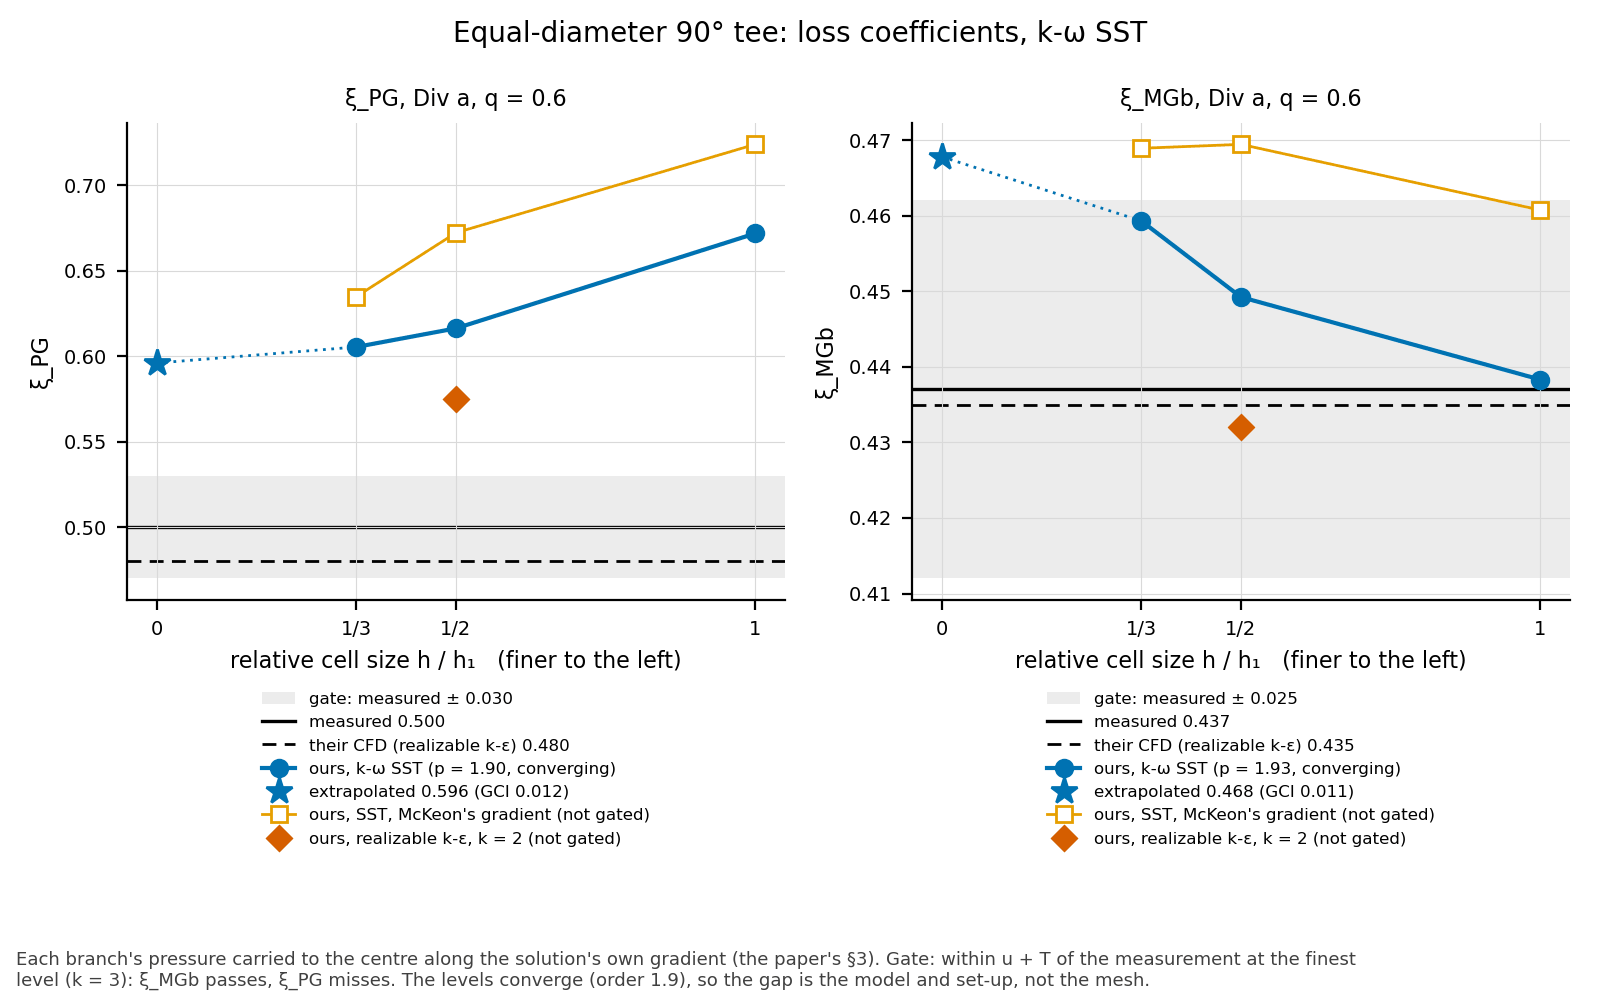
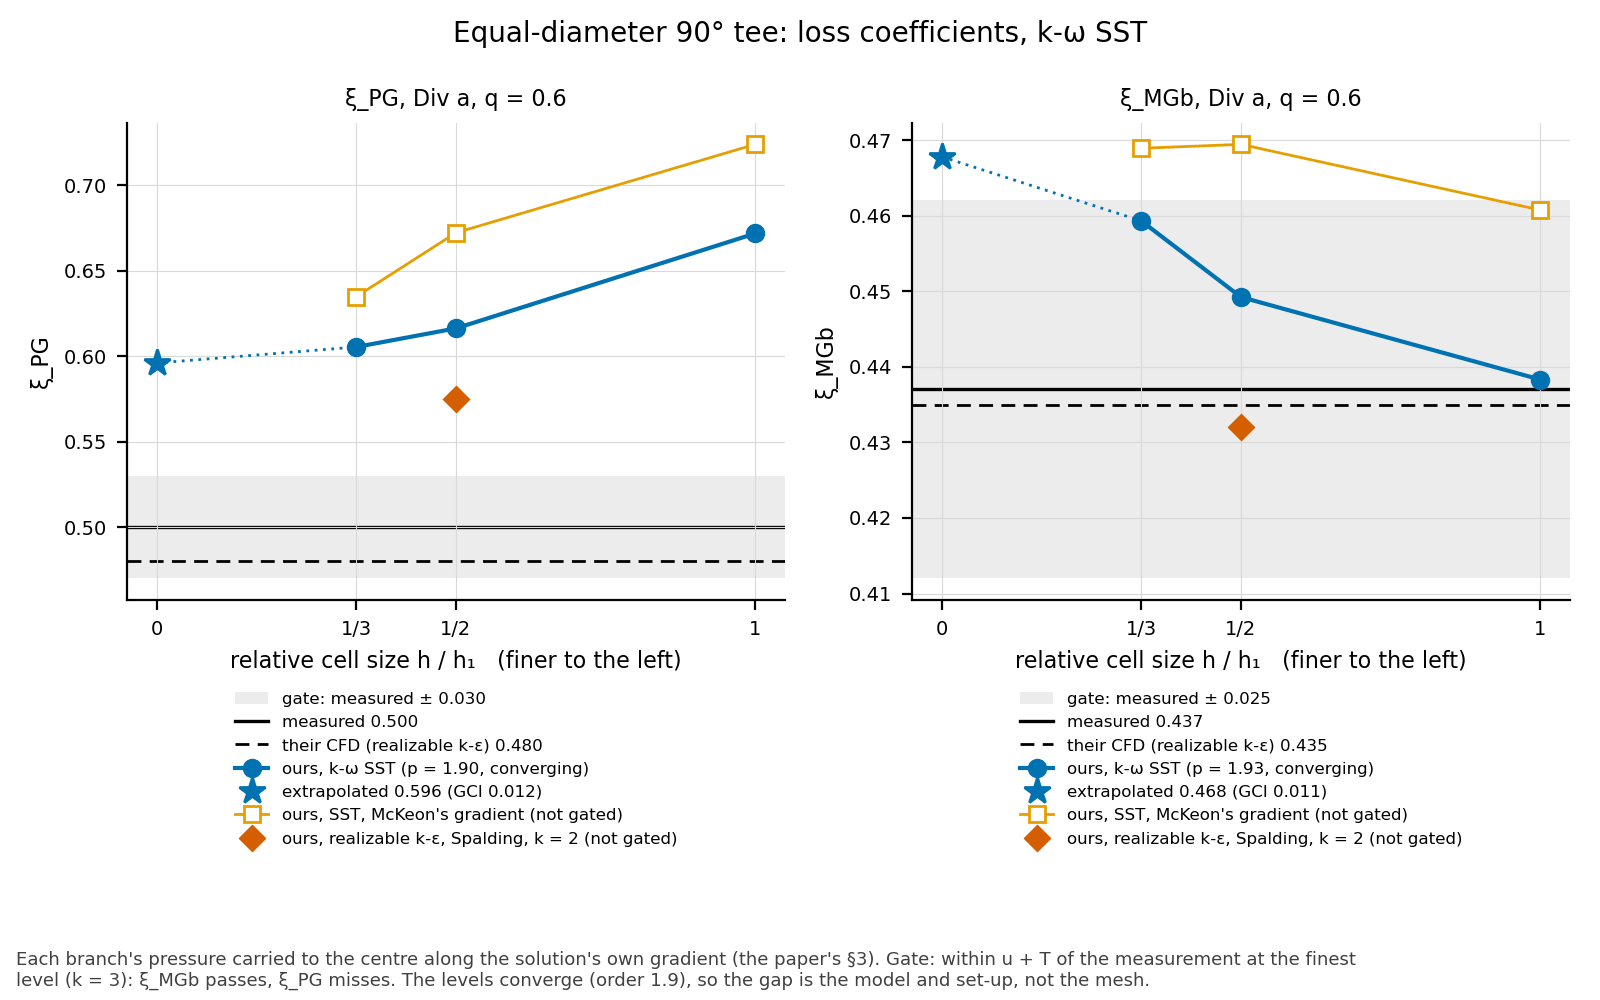
Task 0162 Q4 set-up: run.py --wall {spalding,nutk} (steady k-e with the transient set-up's nutkWallFunction); the figure plots k-e levels per wall; RESULTS says why the transient run was dropped; pFinal relTol 0 stall (integrations)
The nutk run (div_a q 0.6, k = 2) is running; its result follows in a later commit.

Changed region(s): [[0.625, 0.682, 0.9062, 0.868], [0.125, 0.682, 0.4062, 0.868]]

diff --git a/validation/junction_loss/run.py b/validation/junction_loss/run.py
@@ -360,12 +360,16 @@ WALL = {"U": "type noSlip;", "p": "type zeroGradient;",
 #: pressure-gradient term.  Both switch to the laminar law below y⁺ ≈ 11;
 #: the wall cell sits near y⁺ 14 at k = 2.
 NUT_TRANSIENT = "type nutkWallFunction; value uniform 0;"
+#: --wall: nut's wall function; ``nutk`` is the transient set-up's, run steady
+#: to separate the wall treatment from the solver (task 0162 Q4)
+NUT_WALL = {"spalding": WALL["nut"], "nutk": NUT_TRANSIENT}
 
 
 def write_case(case: Path, flows: dict, pressure_branch: str, area: float, end_time: float,
                interval: float, purge: int, re: float, model: str = "sst",
-               transient: bool = False, window: float = 0.0) -> None:
+               transient: bool = False, window: float = 0.0, wall: str | None = None) -> None:
     ras, extra = MODELS[model]
+    wall = wall or ("nutk" if transient else "spalding")
     for d in ("0", "constant", "system"):
         (case / d).mkdir(parents=True, exist_ok=True)
     if transient:
@@ -397,8 +401,8 @@ def write_case(case: Path, flows: dict, pressure_branch: str, area: float, end_t
         cls = "volVectorField" if f == "U" else "volScalarField"
         rows = [f"    {PATCH[b]:12s} {{ {boundary(f, b, flows[b], b == pressure_branch, area)} }}"
                 for b in ("a", "b", "c")]
-        wall = NUT_TRANSIENT if transient and f == "nut" else WALL[f]
-        rows.append(f'    "fluid_wall.*" {{ {wall.format(k=repr(k0), omega=repr(omega0), epsilon=repr(epsilon0))} }}')
+        cond = NUT_WALL[wall] if f == "nut" else WALL[f]
+        rows.append(f'    "fluid_wall.*" {{ {cond.format(k=repr(k0), omega=repr(omega0), epsilon=repr(epsilon0))} }}')
         text = (H(cls, f, "0") + f"dimensions      {dims};\ninternalField   {internal[f]};\n"
                 "boundaryField\n{\n" + "\n".join(rows) + "\n}\n")
         (case / "0" / f).write_text(text, encoding="utf-8")
@@ -510,15 +514,18 @@ def profile(g: dict, p: np.ndarray, flows: dict, re: float) -> dict:
 # --- one point ---------------------------------------------------------------------
 
 def point_name(config: str, q: float, k: int, re: float = RE, model: str = "sst",
-               transient: bool = False) -> str:
+               transient: bool = False, wall: str | None = None) -> str:
     tail = "" if re == RE else f"_re{re:.0e}".replace("+0", "").replace("+", "")
+    own = "nutk" if transient else "spalding"
     return (f"{config}_q{q:.1f}_k{k}{tail}" + ("" if model == "sst" else f"_{model}")
-            + ("_transient" if transient else ""))
+            + ("_transient" if transient else "")
+            + ("" if wall in (None, own) else f"_{wall}"))
 
 
 def prepare_point(case: Path, config: str, q: float, k: int, end_time: float,
                   reynolds: float = RE, window: float = 1000, samples: int = 10,
-                  model: str = "sst", transient: bool = False) -> dict:
+                  model: str = "sst", transient: bool = False,
+                  wall: str | None = None) -> dict:
     """Mesh one point into *case*, write its OpenFoam case and check the
     mesh; what :func:`collect_point` needs is saved as ``point.json``."""
     total, pressure, flows_of = CONFIGS[config]
@@ -536,10 +543,11 @@ def prepare_point(case: Path, config: str, q: float, k: int, end_time: float,
     # the last samples + 1 writes span the last *window* iterations
     interval = window / samples if transient else max(window // samples, 1)
     write_case(case, {b: f * U_TOTAL * area for b, f in flows_of(q).items()}, pressure, area,
-               end_time, interval, samples + 1, reynolds, model, transient, window)
+               end_time, interval, samples + 1, reynolds, model, transient, window, wall)
     of.convert(case, msh, keep_orientation=sj > 0)
     point = {"config": config, "q": q, "k": k, "re": reynolds, "model": model,
-             "solver": "pimpleFoam" if transient else "simpleFoam", "window": window, "cells": cells, "worst_sj": sj,
+             "solver": "pimpleFoam" if transient else "simpleFoam",
+             "wall": wall or ("nutk" if transient else "spalding"), "window": window, "cells": cells, "worst_sj": sj,
              **{f"check_{key}": v for key, v in of.check_mesh(case).items()},
              **stored.counts(asm)}
     (case / "point.json").write_text(json.dumps(point, indent=1), encoding="utf-8")
@@ -586,9 +594,10 @@ def collect_point(case: Path) -> dict:
 
 def run_point(config: str, q: float, k: int, work: Path, end_time: float, n_proc: int,
               reynolds: float = RE, window: float = 1000, samples: int = 10,
-              model: str = "sst", transient: bool = False) -> dict:
-    case = work / point_name(config, q, k, reynolds, model, transient)
-    prepare_point(case, config, q, k, end_time, reynolds, window, samples, model, transient)
+              model: str = "sst", transient: bool = False, wall: str | None = None) -> dict:
+    case = work / point_name(config, q, k, reynolds, model, transient, wall)
+    prepare_point(case, config, q, k, end_time, reynolds, window, samples, model, transient,
+                  wall)
     of.run_solver(case, "pimpleFoam" if transient else "simpleFoam", n_proc=n_proc)
     return collect_point(case)
 
@@ -708,6 +717,10 @@ def main(argv=None) -> dict:
     ap.add_argument("--samples", type=int, default=None,
                     help="pressure fields written across the window (default 10; with "
                          f"--transient {TRANSIENT_SAMPLES})")
+    ap.add_argument("--wall", choices=sorted(NUT_WALL), default=None,
+                    help="nut's wall function: spalding (nutUSpaldingWallFunction, the default "
+                         "when steady) or nutk (nutkWallFunction, the default with --transient); "
+                         "a level with the other one is named *_<wall>")
     ap.add_argument("--transient", action="store_true",
                     help="pimpleFoam from rest, as the paper's CFD (task 0162 Q3); never gated")
     ap.add_argument("--np", type=int, default=1, dest="n_proc",
@@ -735,11 +748,12 @@ def main(argv=None) -> dict:
     points = args.points or [(c, q) for c in CONFIGS for q in QS]
     for config, q in points:
         for k in args.levels:
-            name = point_name(config, q, k, args.re, args.model, args.transient)
+            name = point_name(config, q, k, args.re, args.model, args.transient, args.wall)
             r = stored.run_level(store, name,
                                  lambda c=config, q=q, k=k: run_point(
                                      c, q, k, args.work, args.end_time, args.n_proc, args.re,
-                                     args.window, args.samples, args.model, args.transient),
+                                     args.window, args.samples, args.model, args.transient,
+                                     args.wall),
                                  args.work / name, args.keep_work)
             print(f"[{name}] ξ_PG {r['xi_PG']:.4f} ± {r['xi_PG_spread'] or 0:.4f} "
                   f"(McKeon {r['xi_PG_mckeon']:.4f}), ξ_MGb {r['xi_MGb']:.4f} "

diff --git a/validation/tools/plots.py b/validation/tools/plots.py
@@ -729,7 +729,7 @@ def junction_loss(data, out):
     sst = sorted(_levels(data, config="div_a", model="sst"), key=lambda l: l["k"])
     rke = [l for l in _levels(data, config="div_a", model="rke")
            if l.get("solver", "simpleFoam") == "simpleFoam"]
-    unsteady = [l for l in _levels(data, config="div_a", solver="pimpleFoam")]
+    walls = {"spalding": (3, "Spalding"), "nutk": (2, "nutkWallFunction")}
     rich = data["extra"]["richardson"]["Div a q 0.6"]
     h = _h(sst)
     fig, ax = _figure(1, 2)
@@ -755,15 +755,12 @@ def junction_loss(data, out):
         a.plot(h, _col(sst, f"{coef}_mckeon"), color=st["color"], marker=st["marker"],
                linewidth=1, markerfacecolor="white", zorder=3,
                label="ours, SST, McKeon's gradient (not gated)")
-        st = style(None, 3)
-        a.plot(_h(rke) if rke[0].get("k") else [], _col(rke, coef), color=st["color"],
-               marker=st["marker"], linestyle="none", zorder=4,
-               label="ours, realizable k-ε, k = 2 (not gated)")
-        if unsteady:
-            st = style(None, 4)
-            a.plot(_h(unsteady), _col(unsteady, coef), color=st["color"], marker=st["marker"],
+        for l in rke:
+            slot, wall = walls[l.get("wall", "spalding")]
+            st = style(None, slot)
+            a.plot(_h([l]), [l[coef]], color=st["color"], marker=st["marker"],
                    linestyle="none", zorder=4,
-                   label=f"ours, realizable k-ε, transient, k = {unsteady[0]['k']} (not gated)")
+                   label=f"ours, realizable k-ε, {wall}, k = {l['k']} (not gated)")
         _axes(a, "relative cell size h / h₁   (finer to the left)", name)
         a.set_xlim(-0.05, 1.05)
         a.xaxis.set_major_locator(FixedLocator([0] + sorted(h)))

diff --git a/docs/integrations/openfoam.md b/docs/integrations/openfoam.md
@@ -332,6 +332,15 @@ All v1912, gmsh 4.12.1, 2026-10-25.
     (task 0162).  `hexmesh.study.openfoam`'s runner defaults to native,
     so a script calling it directly must `set_runner` first; the
     drivers do, from `--openfoam`.
+- **`pFinal` with `relTol 0` can stall at its iteration limit** (v2406,
+  Docker; task 0162, 2026-11-18).  `pimpleFoam`, GAMG with
+  `GaussSeidel`, `tolerance 1e-7`, on the junction case at k = 2 (526 k
+  cells, 3 processes): the last p solve of every step stopped at a
+  residual near 1.3e-6 after 1000 iterations, 48 s a step.  With
+  `relTol 0.01` on `pFinal` (and `tolerance 1e-6`) a step took about 200
+  GAMG iterations in all, 41 s: GAMG costs about 0.2 s an iteration
+  there.  An absolute tolerance below where GAMG levels off isn't met;
+  give `pFinal` a relTol, or a tolerance it reaches.
 - **Tutorial `pipeCyclic` does not run as shipped here.**  Its coded
   swirl inlet fails with `Unknown variable 'WM_OPTIONS'` (no build
   environment).  Its dictionaries are still a sound base: task 0020 uses

diff --git a/validation/junction_loss/RESULTS.md b/validation/junction_loss/RESULTS.md
@@ -86,3 +86,14 @@ are not run.  At k = 2 they cost about 80 h on this machine.  With ξ_PG
 off by about 0.1 at the point tried, they would show the curves' shape,
 not change the verdict.  Task 0168 (a volunteer card for them) waits for
 the user's say.
+
+**A transient run like the paper's** (`run.py --transient`: realizable
+k-ε, `pimpleFoam` from rest, `maxCo` 1, settle 20 s, average 12 s) was
+set up and dropped.  At k = 2 on 3 processes a time step costs about
+41 s (about 200 GAMG iterations on p) and the step settles near
+0.4-0.5 ms, so the 32 s planned would take about 70 000 steps, about
+800 h.  The steady k-ε run settles (its samples agree to 10⁻⁵), and a
+RANS flow that settles has that steady state as its transient limit, so
+the run would most likely have reproduced the steady value.  In its
+place, the steady k-ε run is repeated with the transient set-up's wall
+function (`nutkWallFunction`), to show the wall treatment's share.
